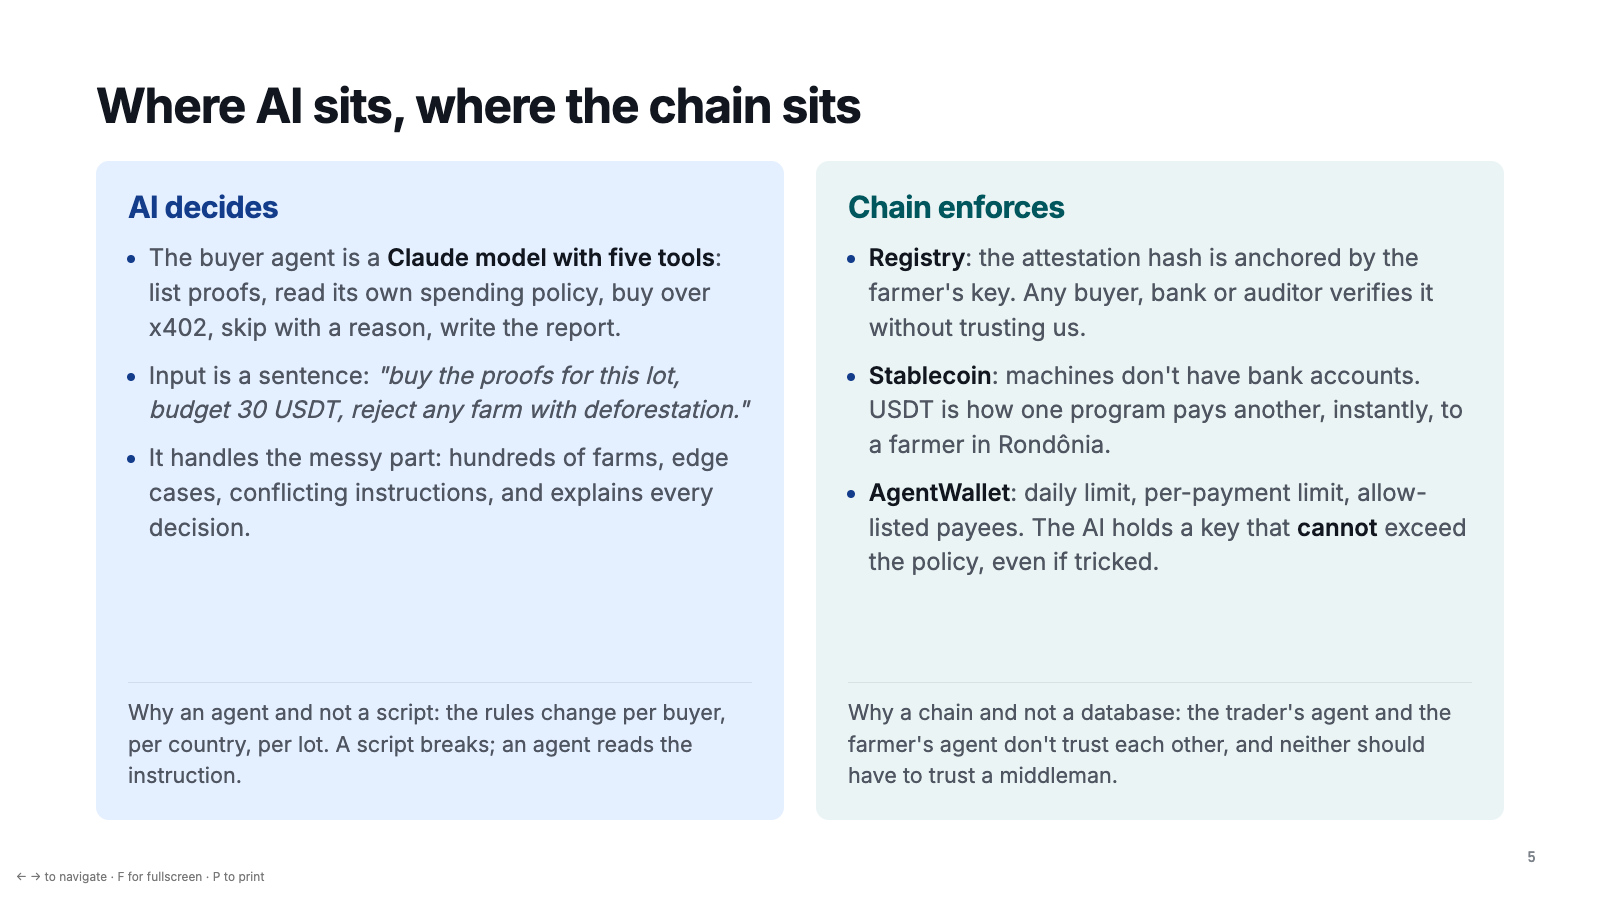
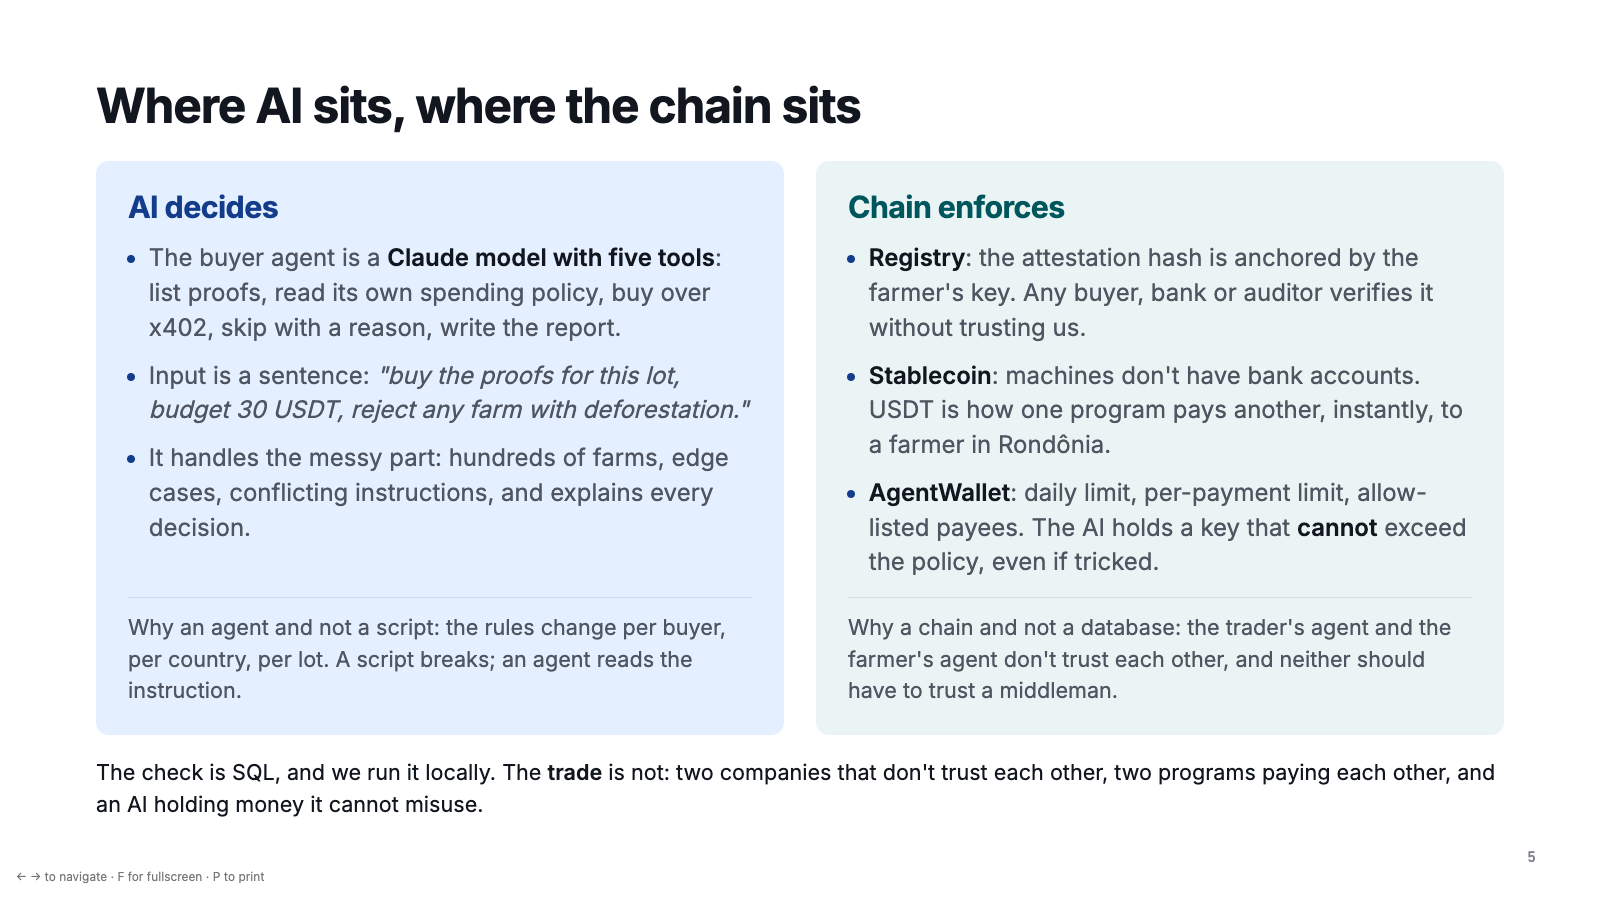
3-minute script (1 min pitch, 2 min happy-path demo); wow headline; SQL answer on slide 5

Changed region(s): [[0.0625, 0.6844, 0.9375, 0.9333]]

diff --git a/docs/slides/index.html b/docs/slides/index.html
@@ -73,7 +73,7 @@
 <section class="slide on">
   <div class="kicker">EAG Global Buildathon · Floripa · 12 Sep 2026</div>
   <h1>Proof of Field</h1>
-  <p class="lead" style="margin-top:2vw">Farmer-owned deforestation proofs,<br/>bought by AI agents, settled on-chain.</p>
+  <p class="lead" style="margin-top:2vw">The paper that takes three weeks to clear a soy shipment,<br/>turned into a five-dollar API call an AI agent buys from the farmer.</p>
   <p class="sub">Murilo Leite · Nixar Solutions · farmer in Abunã, Rondônia<br/>Live on HSK Chain testnet</p>
   <span class="n">1</span>
 </section>
@@ -155,6 +155,7 @@
       <p class="why">Why a chain and not a database: the trader's agent and the farmer's agent don't trust each other, and neither should have to trust a middleman.</p>
     </div>
   </div>
+  <p class="note" style="font-size:1.35vw;color:var(--ink);margin-top:1.4vw">The check is SQL, and we run it locally. The <b>trade</b> is not: two companies that don't trust each other, two programs paying each other, and an AI holding money it cannot misuse.</p>
   <span class="n">5</span>
 </section>
 

diff --git a/docs/PITCH.md b/docs/PITCH.md
@@ -1,4 +1,47 @@
-# Proof of Field — pitch (3 min) + Q&A prep (2 min)
+# Proof of Field — 3-minute presentation (1 min pitch · 2 min demo) + 2 min Q&A
+
+## Before walking up (checklist)
+- Console open at http://localhost:5173, PRODES layer OFF, no field selected. Two proofs already listed: …9C62 (clean) and …4C8E (26 ha). Sales section empty (delete `data/farmer-payments.hsk-testnet.*.json` and restart the farmer agent if not).
+- Terminal with this typed, NOT executed: `cd ~/Documents/Projetos_Codigo/eag-buildathon && NETWORK=hsk-testnet pnpm buyer:ai "Buy the proofs for every farm in this lot. Budget 30 USDT. Reject any farm with deforestation after 2020."`
+- Explorer tab: https://testnet-explorer.hsk.xyz/address/0xe0e5e881542266aac1b3457fdd33147c761b46dd
+- Slides open on slide 1, fullscreen.
+
+## 1 minute pitch (slides 1 → 5, ~12 s each)
+
+**Slide 1 (0:00).** "Hi, I'm Murilo. I have a farm in the Amazon. This is Proof of Field."
+
+**Slide 2 (0:10).** "Every bag of soy or beef that leaves Brazil needs one piece of paper: proof the farm didn't deforest after 2020. Europe demands it by law, banks demand it for credit, China, our biggest buyer, is starting to demand it too."
+
+**Slide 3 (0:22).** "Today that paper takes three weeks. The farmer e-mails his entire farm map to a stranger, the trader pays a vendor per farm, and the result is a PDF nobody can verify. Then the next buyer asks again."
+
+**Slide 4 (0:37).** "We turned it into a five-dollar API call. The farmer's computer runs the official check, signs it, and puts it up for sale. The trader's AI agent buys it, pays the farmer in stablecoin, and verifies it on-chain. Two minutes, no humans, and the farm map never leaves the farm."
+
+**Slide 5 (0:50).** "The check is SQL, we run it locally. What isn't SQL is the trade: two companies that don't trust each other, two programs paying each other, and an AI holding money it cannot misuse. Let me show you."
+
+## 2 minute demo (happy path only)
+
+**0:00 [Console]** Click **…9C62**. Green verdict appears. → "This is a real 5,500-hectare property from Brazil's rural registry, checked against INPE's official deforestation map. Clean."
+
+**0:10 [Console]** Click **Sign attestation & anchor on-chain**. Wait for the hash and tx (~5 s). → "Signed by the farmer's key. Only the hash goes to HashKey Chain. The proof is now for sale."
+
+**0:20 [Terminal]** Press **Enter**. → "This is the trading company's agent. It got one sentence from the operator: buy this lot, budget 30, reject deforestation." *(It runs ~70 s. Talk over it, don't wait in silence.)*
+
+**0:30** as `list_proofs` / `policy_status` print → "It lists what the farmer sells and reads its own on-chain spending policy."
+
+**0:45** as the first `buy_proof` prints → "HTTP 402, payment required. It pays five USDT through a wallet with hard limits. Gets the proof. Verifies the signature and the registry itself, without trusting the farmer or us."
+
+**1:15** as `skip_proof` prints → "And this one it refuses: 26 hectares cleared in 2022. It says why."
+
+**1:35 [Console]** Point at **Sales**: +5.00 USDT appeared by itself. → "The farmer was paid the second his data was used."
+
+**1:45 [Explorer]** Click the payment tx. → "Every step is a public transaction on HashKey Chain."
+
+**1:55** "Farmer paid. Trader cleared. Nobody e-mailed anyone. That's Proof of Field."
+
+**Fallback** if the API stalls (>90 s): Ctrl-C, run `NETWORK=hsk-testnet pnpm buyer -- <proof URL from console>` (5 s, same four steps, no LLM). Say: "same flow, without the model deciding."
+
+## Slides 6–8 are for Q&A only
+Jump to 7 for "how does it work", 8 for "what's next / who are you".
 
 ## Slides (8)
 
